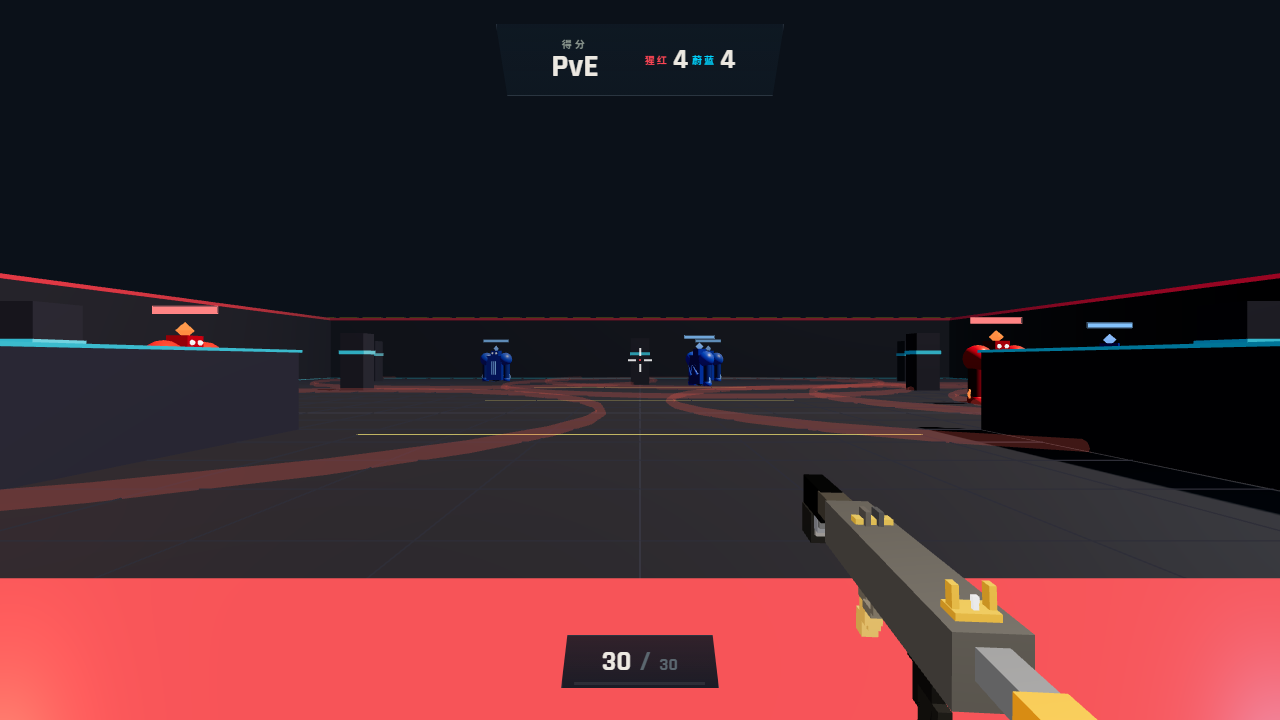
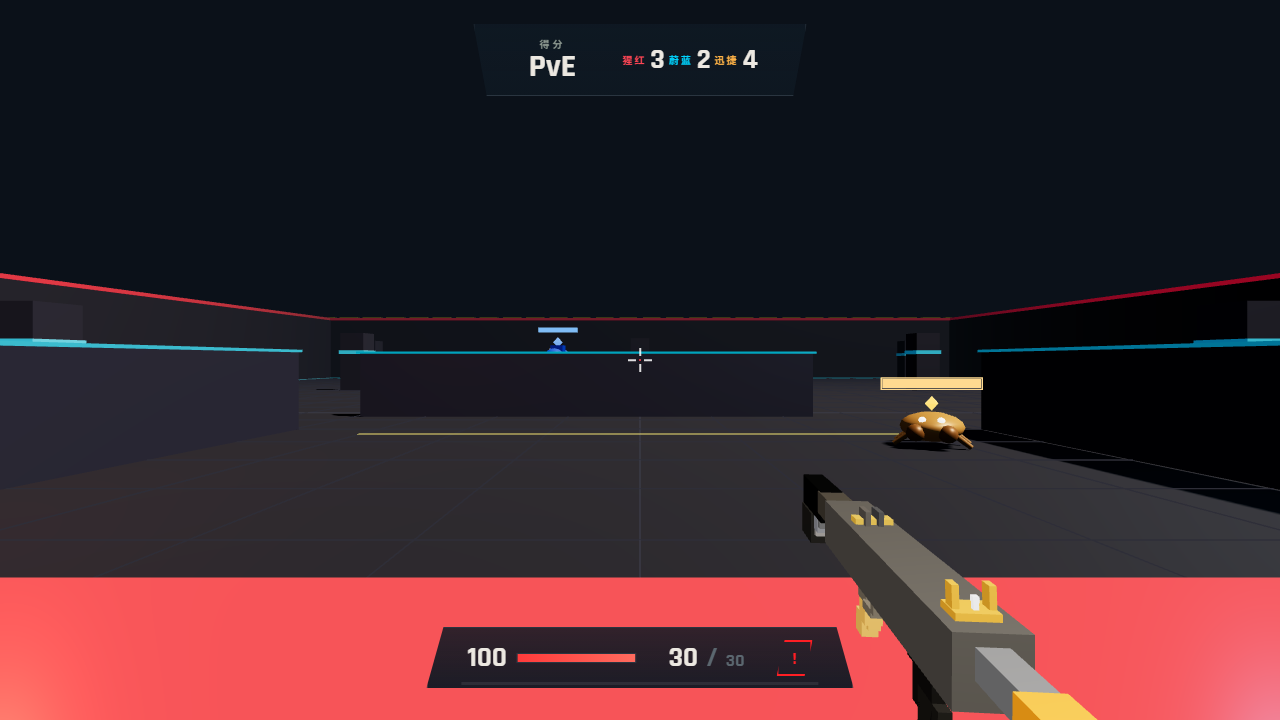
docs: README 对齐 M3 现状——定位改 5 关闯关、玩法节重写（关卡/评级/四怪种表/血量校准说明）、项目结构补 js 四模块、测试数字更新、链设计文档；重拍配图（L4 实机 1280x720）

diff --git a/README.md b/README.md
@@ -1,6 +1,6 @@
 # 王者峡谷 PvE — 野怪追逐
 
-一个跑在浏览器里的第一人称射击游戏。王者峡谷主题的 PvE 训练靶场：在封闭场地里猎杀猩红 / 蔚蓝双阵营野怪，没有时间限制，清完为止。
+一个跑在浏览器里的第一人称 PvE 射击游戏。王者峡谷主题：闯过 5 个线性解锁的关卡，猎杀猩红 / 蔚蓝双阵营石像与迅捷蟹，拿 S 评级、攒通关进度——压力来自「下一秒该先杀谁」的决策，而不是数值墙。
 
 **Three.js 渲染 · 零构建依赖 · 纯 HTML/CSS/JS**
 
@@ -20,7 +20,7 @@ start.bat
 node server.js
 ```
 
-然后浏览器访问 <http://127.0.0.1:3000>，点击「进入训练」即可。
+然后浏览器访问 <http://127.0.0.1:3000>，点「继续游戏 · L1」开局（玩过的会直进当前进度关），或用「选择关卡」挑已解锁的关卡。
 
 > **⚠ 不能直接双击 `index.html`。**
 > `game.js` 是 ES Module，用 `file://` 协议打开会被浏览器的 CORS 策略拦截，脚本一行都不会执行，
@@ -47,20 +47,38 @@ node server.js
 
 ## 玩法与数值
 
-- **弹药**：30 发弹匣，1.5 秒换弹。打空会自动换弹，也可以随时按 `R` 提前补满。
+### 关卡与进度
+
+- **5 关线性解锁**：峡谷初见 → 蔚蓝威胁 → 野区窄道 → 蟹群来袭 → 暗影先锋。
+  通关解锁下一关，结算写入 localStorage 存档（最佳评级 / 最佳分数 / 通关次数）；
+  坏档自动备份重置，多标签页合并进度，隐私模式降级为内存档继续玩。
+- **三套场地**：默认布局（双隔断 + 掩体柱）、野区窄道（中路 S 形双窄口，L3/L4）、
+  开阔祭坛（2×3 双柱阵，L5）。每次进关清场重建。
+- **评级 S / A / B / F**（每关独立结算）：
+  - **S**：命中率 ≥75.7% 且爆头率 ≥40% 且未阵亡且用时 ≤ parTime×1.2（每关的 parTime 按数值推导给出）；
+  - **A**：命中率 ≥65.7% 且未阵亡；**B**：通关保底；**F**：阵亡。
+  - 阈值不是拍脑袋：命中率门 = 14 局实测中位数 70.7% ± 5pp（M0 标定）。
+
+### 战斗数值
+
+- **弹药**：30 发弹匣，1.5 秒换弹。打空自动换弹，也可按 `R` 提前补满。
   弹药在**插入弹匣那一刻**（进度 55%）补满，而不是等换弹动作播完。
-- **伤害**：单发基础 34，爆头 ×2（命中 `name='head'` 的网格）。
-- **玩家血量**：100 HP，无回血。受击有屏幕红闪 + 相机抖动 + 闷响三件套反馈；
-  血量归零本局结束，结算界面显示「你已阵亡」（评级 F），可重新开局。
-- **野怪**：每局随机生成 6~8 只。猩红石像 150 血（5 枪）**近战**；
-  蔚蓝石像 100 血（3 枪）**远程**。两种怪都只会朝视线通畅的方向攻击，隔着掩体只绕行不攻击。
-- **AI**：野怪警戒区 24m（基本覆盖全场，进图即追），且红蓝分工明确：
-  - **红怪**追到 2.6m 内抬臂前摇 0.35 秒（反应窗口），随后前冲挥击，命中 **25 伤**，冷却 1 秒；
-  - **蓝怪**停在 12m 射程处站桩施法——后仰蓄力 + 双臂抬起 + 头顶宝石渐亮 0.4 秒预警，
-    然后前倾掷出直线飞行的魔法弹，**10 伤**，冷却 1.5 秒。弹速 9 m/s（约 1.3 秒飞完 12 米），
-    走位即可躲开，撞掩体会碎成蓝色粒子。
-- **后坐力**：连续射击时相机上抬 + 随机水平偏移，武器枪口上翘、准星扩散，松手自动回正。
-- **结算**：全歼野怪弹出胜利结算（评级 S）；血量归零则显示「你已阵亡」（评级 F），均可重新开局。
+- **伤害**：单发基础 34，爆头 ×2（蟹没有头部判定，爆头不加成）。
+- **玩家血量**：100 HP，无回血。受击有屏幕红闪 + 相机抖动 + 闷响反馈；归零本局结束。
+- **野怪**：实际血量 = 下表基座 × 关卡倍率（1.0 / 1.1）× 1.5（全局校准系数，
+  来自 M0 对真实玩家命中率的标定）——例如 L1 的猩红石像实际 225 血 ≈ 7 枪。
+
+| 怪种 | 基座血量 | 行为 | 伤害 |
+|---|---|---|---|
+| 猩红石像 | 150 | 近战：2.6m 内抬臂前摇 0.35s（反应窗口）→ 前冲挥击，冷却 1s | 25 |
+| 蔚蓝石像 | 100 | 远程：停 12m 射程施法，后仰 + 宝石渐亮 0.4s 预警 → 直线魔法弹（9 m/s，可躲），冷却 1.5s | 10 |
+| 迅捷蟹 | 68 | 贴地突进 8.0（比疾跑快，跑不掉）但**转向钝**（120°/s，横向滑步能甩）：扑击前 0.3s 压低蓄力，扑向锁定可侧移躲，扑完必后跳 1.6m（节奏窗口）；爆头不加成 | 5 / 扑 |
+| 精英红 / 精英蓝 | 300 / 220 | 红蓝同行为放大：体型 ×1.3（紫魔纹 + 大宝石）、伤害 ×1.5、追速 ×0.9（风筝有解，血厚逼你集火） | 37.5 / 15 |
+
+- **AI 通用规则**：警戒区 24m（进图即追），只在视线通畅时攻击，隔着掩体只绕行不隔墙打；
+  野怪之间有软分离，不会叠成一团。
+- **后坐力**：连续射击时相机上抬 + 固定水平弹道图案（可练习），武器枪口上翘、准星扩散，松手自动回正。
+- **结算**：全歼野怪 → 通关结算（评级按上表规则，最高 S）；阵亡 → 「你已阵亡」（F），可重试本关或回选关。
 
 ---
 
@@ -70,6 +88,9 @@ node server.js
 
 - **零构建**。没有 webpack / vite / npm 依赖，Three.js 通过 importmap 从 CDN 加载，
   用浏览器原生 ES Module 直接跑。
+- **布局即数据**。三套场地是 `levels.js` 里的障碍 descriptor 预设，每次进关由
+  `applyLayout` 清场重建（旧几何 dispose + 碰撞体同步清空）；`validateLayout`
+  在静态检查期把关出生点净空与 0.8m 最小间距，摆错坐标进不了主干。
 - **枪械动画用 Catmull-Rom 样条插值**。换弹动作是 6 个关键帧 × 6 个通道（位移 xyz + 旋转 rx/ry/rz）。
   最初用逐段 `easeOutCubic`，虽然首尾值正确，但每段两端斜率都归零，跨关键帧时速度突变，
   60fps 下单帧跳变约 **9.4°**，肉眼是明显抽动。改用 Catmull-Rom（一阶连续）后降到 **0.22°/帧**。
@@ -91,16 +112,24 @@ node server.js
 
 ```
 shoot/
-├── index.html          主页面，UI overlay 结构
+├── index.html          主页面，UI overlay 结构（开始屏 / 选关屏 / HUD / 结算屏）
 ├── css/styles.css      样式与响应式布局
-├── js/game.js          全部游戏逻辑（约 3400 行）
+├── js/
+│   ├── game.js         游戏主逻辑：渲染 / 移动 / 射击 / 野怪 AI 状态机 / UI（约 4300 行）
+│   ├── monsters.js     怪种工厂：五种怪的建模骨架 + 数值基座 + 血条系统
+│   ├── save.js         localStorage 读写层：M0 标定样本 + 关卡进度存档
+│   └── config/
+│       ├── weapons.js  武器参数表（per-weapon 数值唯一真源）
+│       └── levels.js   关卡表 L1-L5 + 场地布局预设 + 评级阈值 + schema 校验器
 ├── server.js           Node 静态服务器（含自动打开浏览器）
 ├── start.bat           Windows 双击启动器
 ├── start.ps1           PowerShell 启动器
 ├── assets/
 │   ├── ak47.glb        AK-47 枪模
 │   └── sfx/            音效文件 + CREDITS.md（来源与许可）
-└── docs/screenshot.png README 配图
+└── docs/
+    ├── level-system-design.md  关卡系统设计文档（全部数值挂推导或验收路径）
+    └── screenshot.png  README 配图
 ```
 
 ---
@@ -109,10 +138,15 @@ shoot/
 
 这个项目在开发过程中沉淀了比较完整的记录，都在仓库里：
 
-- **[`.workbuddy/memory/`](.workbuddy/memory/)** — 按日期的开发日志，以及
-  [`MEMORY.md`](.workbuddy/memory/MEMORY.md)（项目约定与踩坑记录）。
+- **[`docs/level-system-design.md`](docs/level-system-design.md)** — 关卡系统设计文档：
+  5 关的数值推导（血池/评级门/parTime 全部挂着 rationale 或验收路径）、
+  怪种规格、场地变体、分期路线图与 playtest 失败信号。
+- **[`.workbuddy/memory/`](.workbuddy/memory/)** — 项目约定与踩坑记录
+  （[`MEMORY.md`](.workbuddy/memory/MEMORY.md)）。
 - **[`.workbuddy/tests/`](.workbuddy/tests/)** — 离线仿真测试（不依赖浏览器/Three.js，直接 `node` 跑）：
-  碰撞 29 项、绕行 33 项、弹丸判定 18 项；改完代码跑一遍，全绿才算过（见 CONTRIBUTING.md）。
+  碰撞与分离 36 项、绕行与蟹转向钝验收 43 项、伤害判定 28 项、关卡/存档/评级 60 项；
+  另有 CDP 无头 Chrome 端到端探针（`level-probe.js`，22 项：闯关/存档/切关无残留/移动端布局）。
+  改完代码跑一遍，全绿才算过（见 CONTRIBUTING.md）。
 - **[`.learnings/`](.learnings/)** — 复盘条目，记录了一些可复用的工程结论，例如：
   - `node --check` 对 `.js` 文件**不可靠**：同一份含多余右括号的文件，
     `--check x.mjs` 退出码 1（能抓到），`--check x.js` 退出码 0（**漏检**，因为按 CommonJS 解析）。
